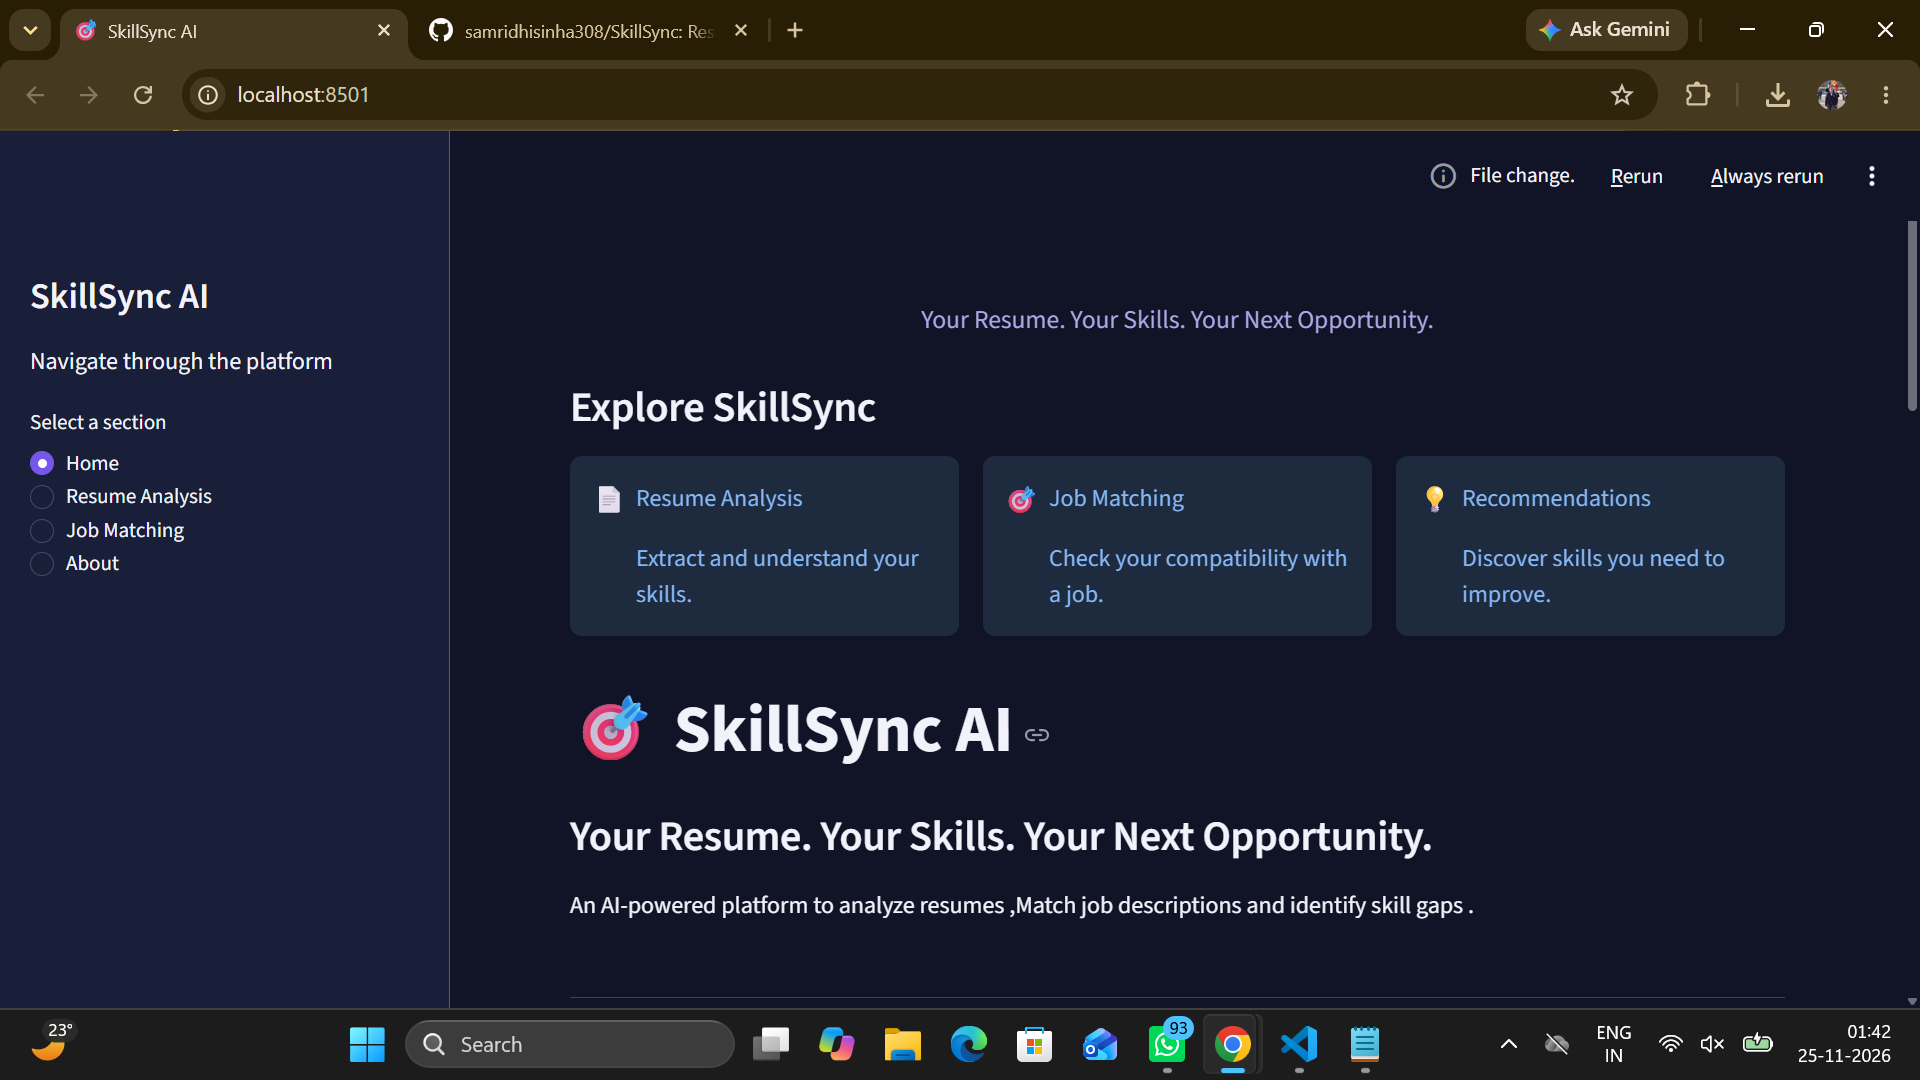
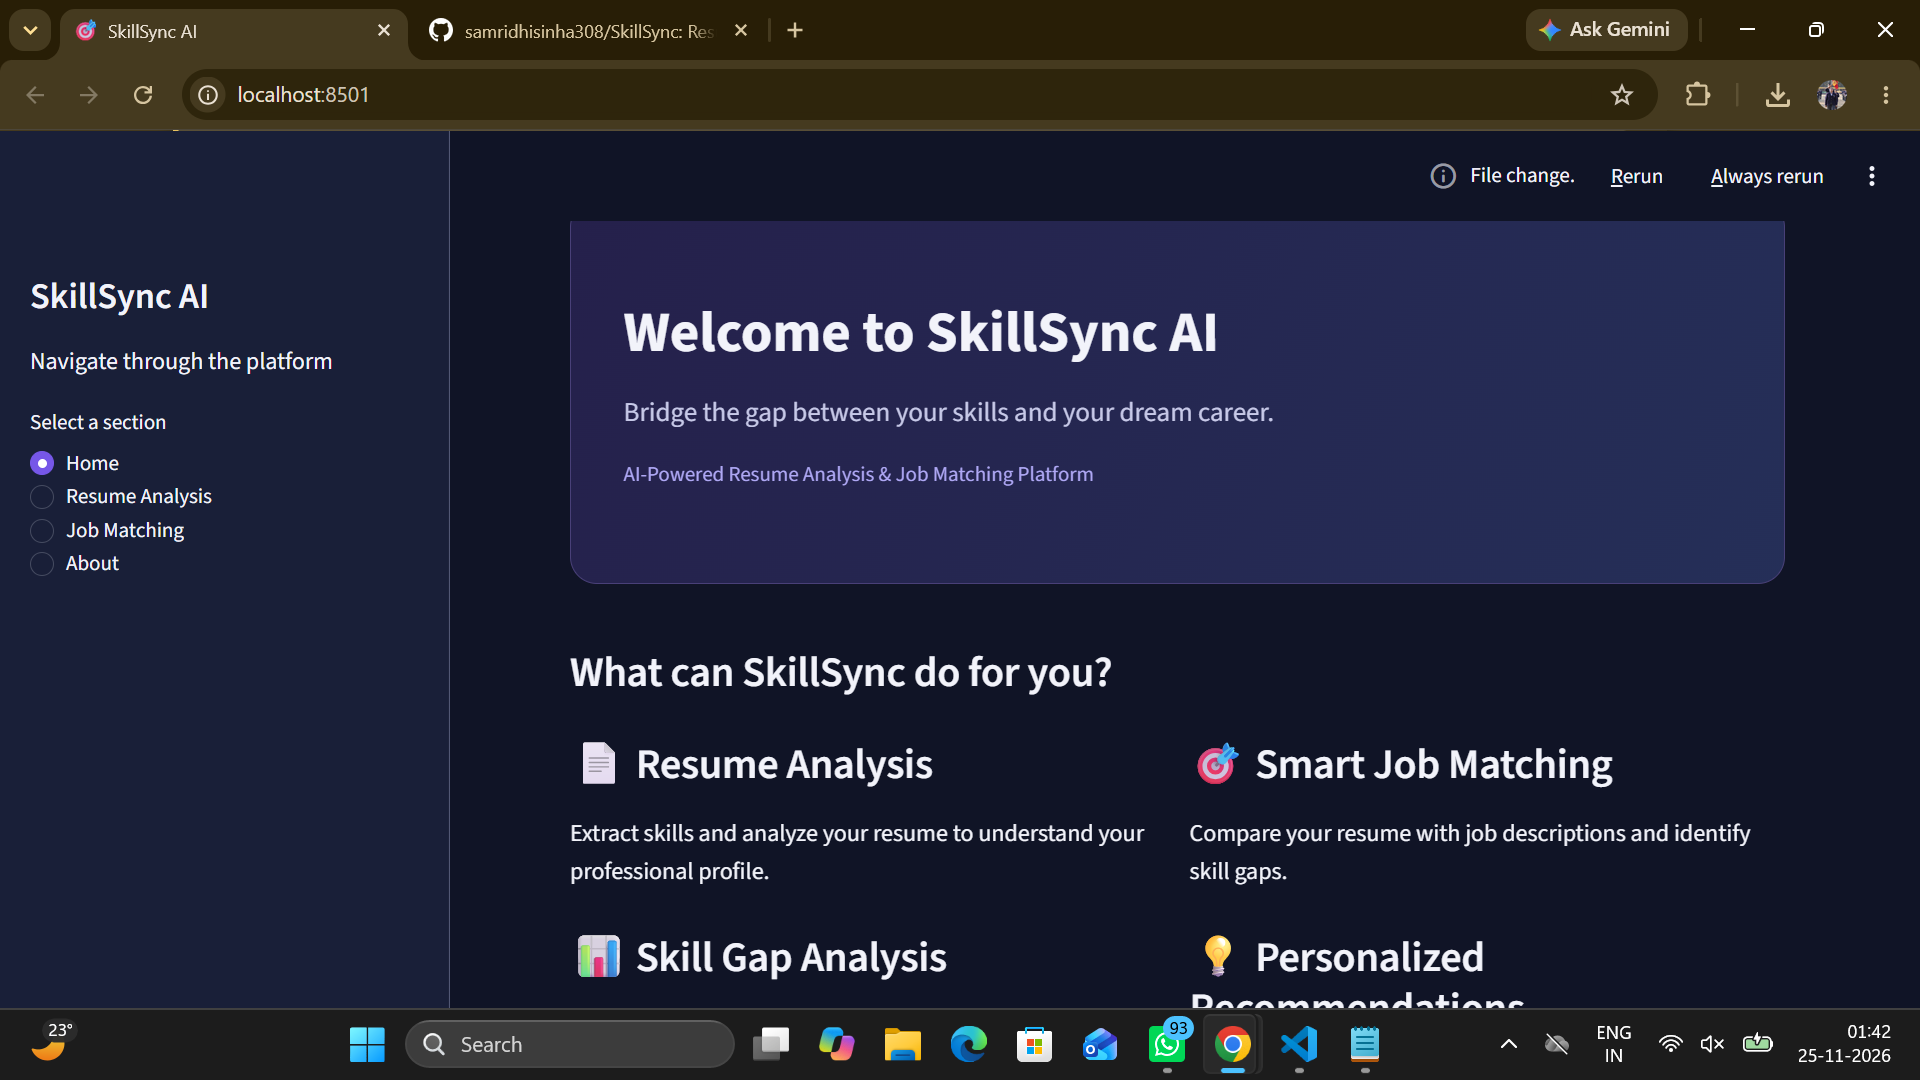
Fix screenshot filenames and update README

diff --git a/README.md b/README.md
@@ -38,14 +38,13 @@ It helps users identify skill gaps, understand job requirements, and receive per
 ## 📸 Application Screenshots
 
 ### Home Page
-![Home Page](screenshots/Home.png,Home2.png,Home3.png)
+![SkillSync Home Page](Screenshots/home.png)
 
 ### Resume Analysis
-![Resume Analysis](screenshots/resume_analysis.png,resume_analysis2.png,resume_analysis3.png)
+![Resume Analysis](Screenshots/resume_analysis.png)
 
 ### Job Matching
-![Job Matching](screenshots/job_matching.png,job_matching2.png,job_matching3.png,job_matching4.png,job_matching5.png,job_matching6.png)
-
+![Job Matching](Screenshots/job_matching.png)
 ## 💻 Installation & Setup
 
 **1. Clone the repository**
